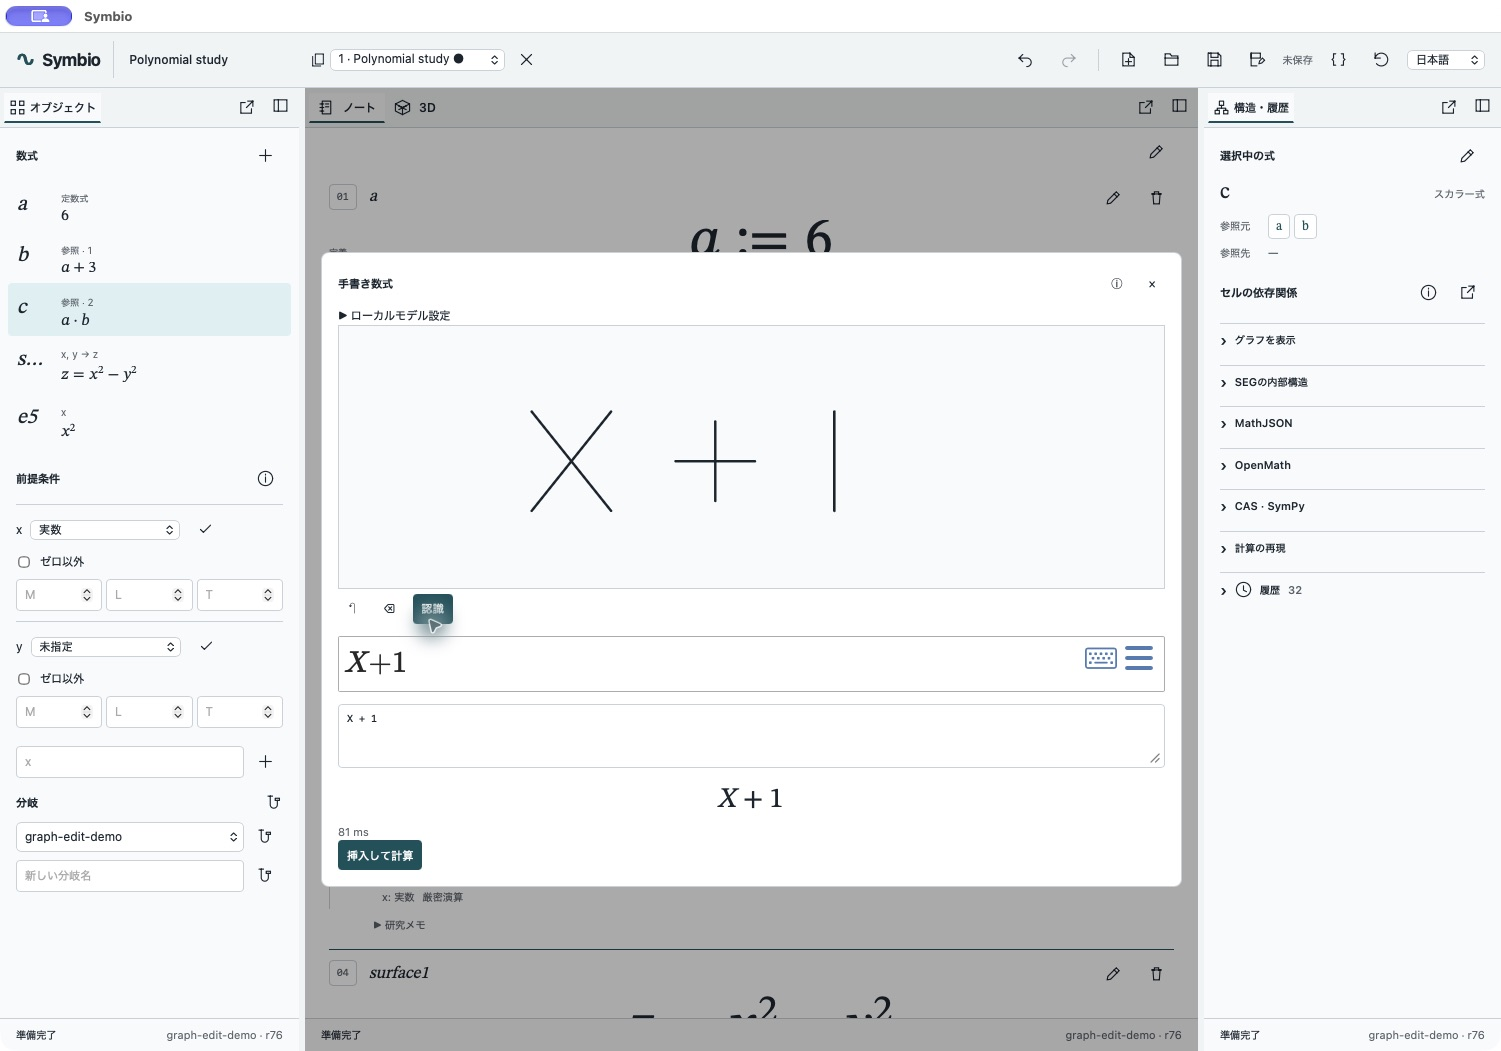
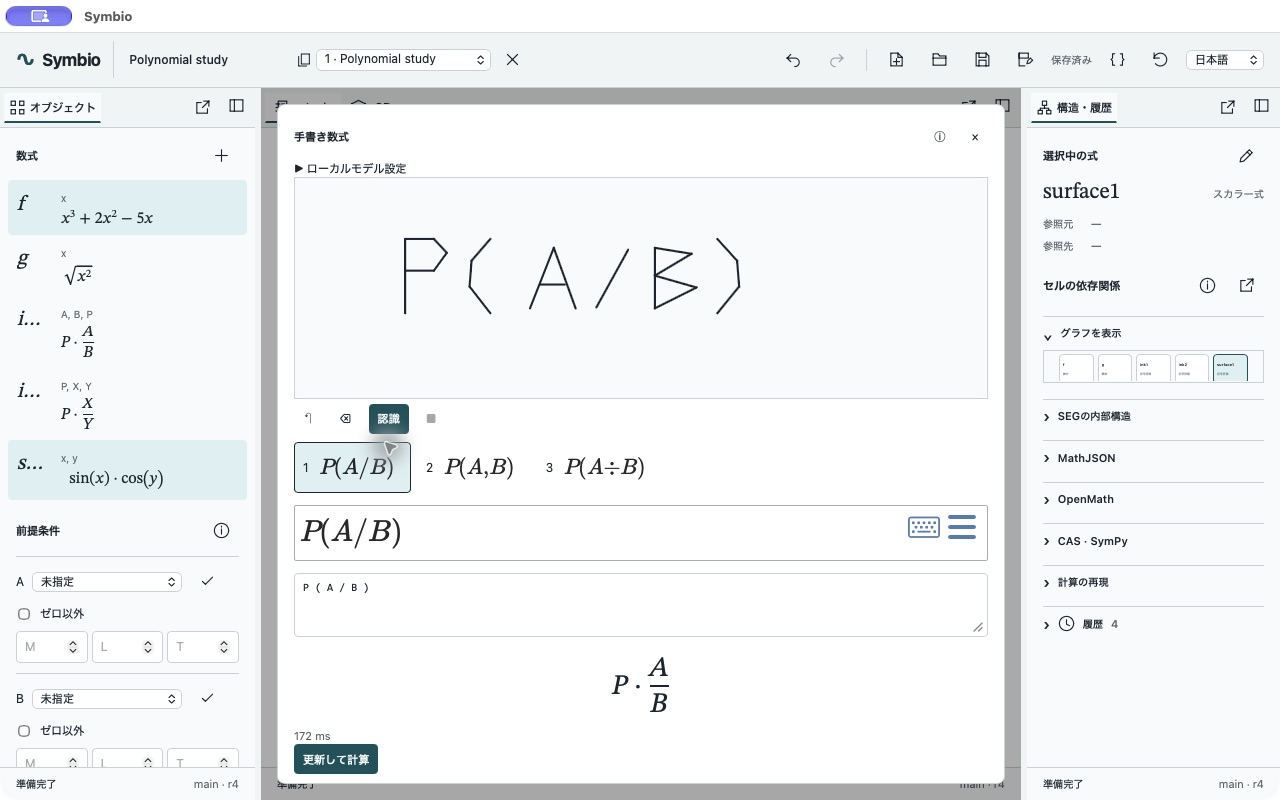
Refresh Symbio README screenshots

diff --git a/README.md b/README.md
@@ -36,13 +36,17 @@ Symbio is an early reproducible derivation and research notebook built with Taur
 
 **The current release is a Semantic Expression Graph (SEG) MVP. Mathematica compatibility, advanced CAS algorithms, LLM integration and formal proof engines are not implemented.**
 
-![Symbio desktop](docs/screenshots/workspace-ja.png)
+## Screenshots
+
+**Notebook workspace** — Typeset definitions and exact results alongside assumptions and the cell dependency graph.
+
+![Symbio notebook with typeset formulas and the cell dependency graph](docs/screenshots/workspace-ja.png)
 
 **3D visualization** — A Rust/wgpu-rendered surface with labeled axes, tick marks and independent x/y ranges.
 
 ![Symbio 3D surface workspace](docs/screenshots/surface-3d-ja.jpg)
 
-**Handwritten formula input** — Native handwriting recognition, an editable MathLive formula and a Rust-backed preview before explicit insertion and calculation.
+**Handwritten formula input** — Ranked handwriting recognition candidates, an editable MathLive formula and a Rust-backed preview before explicit insertion and calculation.
 
 ![Symbio handwriting input and formula preview](docs/screenshots/handwriting-ja.jpg)
 
